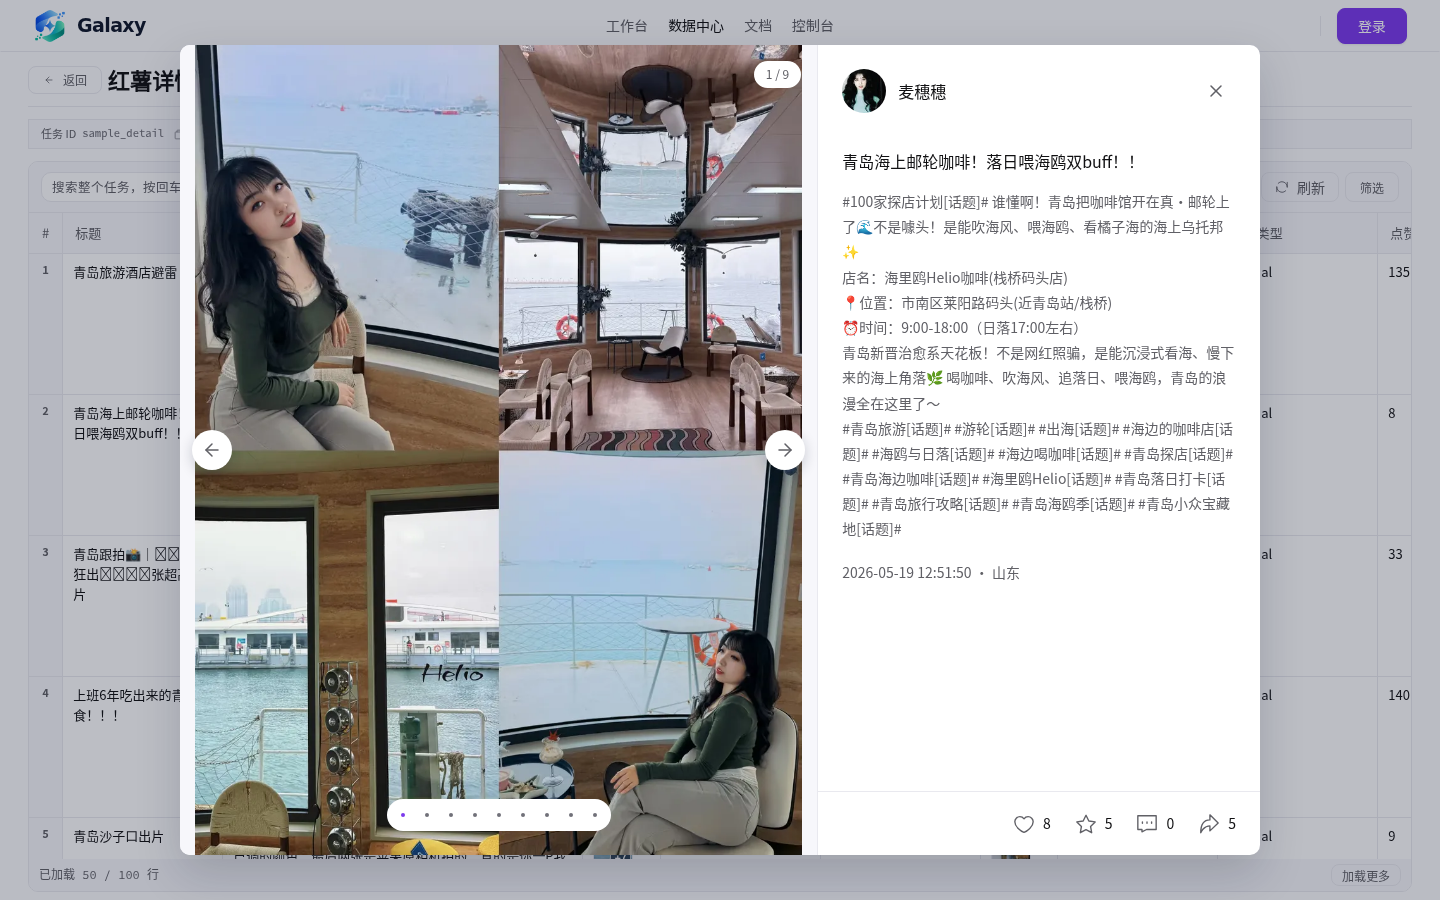
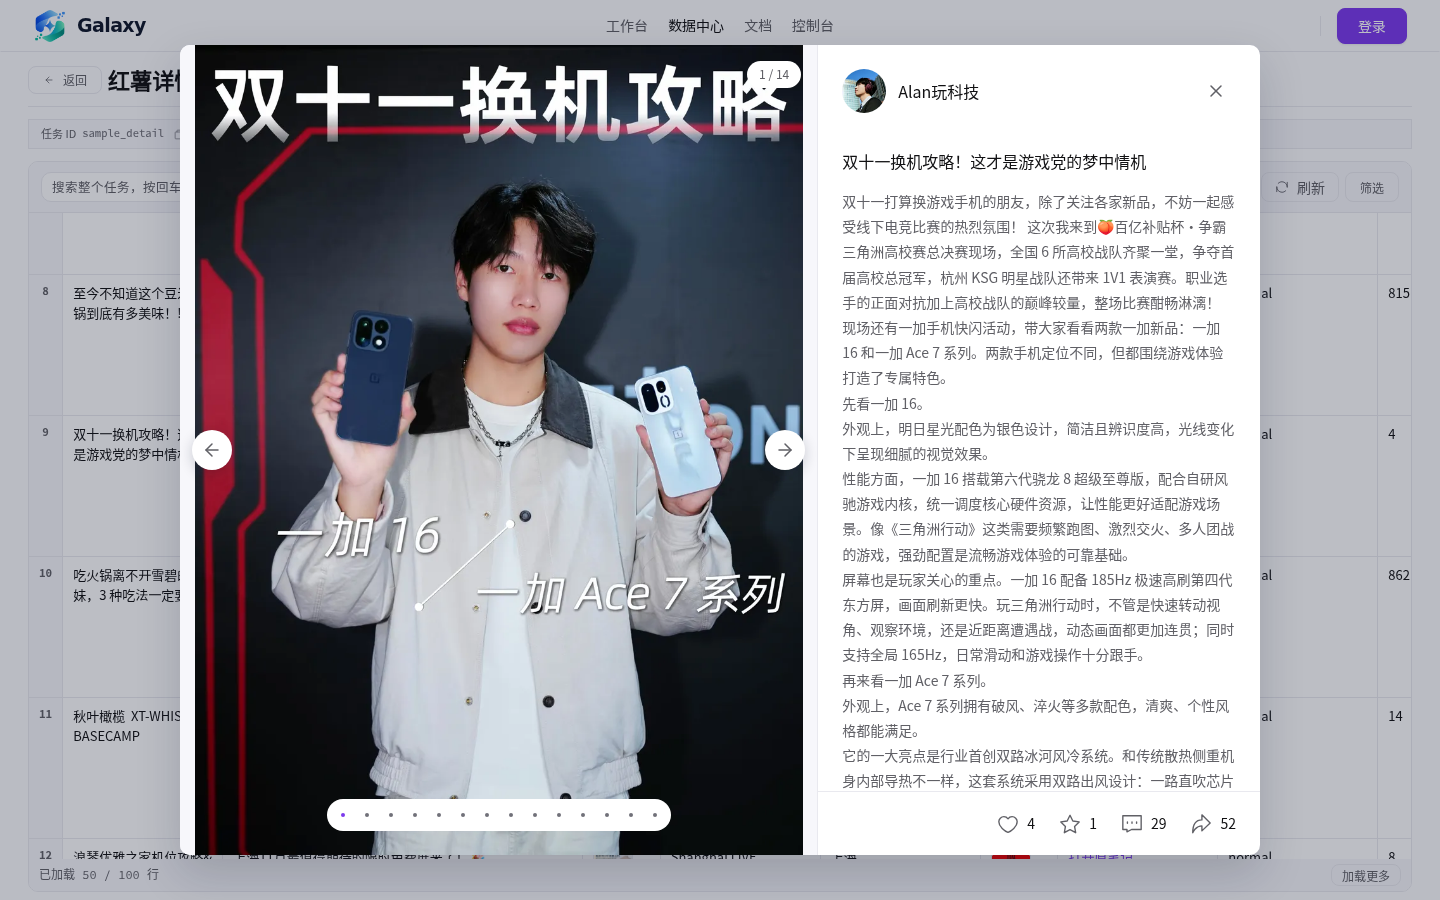
Show demo account overview and a multi-image text note in feature preview

diff --git a/README.en.md b/README.en.md
@@ -40,11 +40,11 @@ The following public guides support Chinese and English through the page languag
 
 ## Feature preview
 
-Fresh screenshots from the live platform in the Light theme, arranged in two rows and three columns: collection workbench, note search, Data Center, note preview, comment analysis and content analysis. Data screens use the platform's public examples.
+Fresh screenshots from the live platform in the Light theme, arranged in two rows and three columns: collection workbench, note search, Data Center, note preview, comment analysis and account overview. Data Center and note preview use public examples; Overview shows the designated demo account.
 
 [![Galaxy feature preview: six live-platform screenshots in a two-row, three-column layout](assets/screenshots/platform-overview.png)](assets/screenshots/platform-overview.png)
 
-[Open the comment analysis report example](https://galaxysapi.com/api/reports/sample?utm_source=github&utm_medium=readme&utm_campaign=xiaohongshu) · [Open the content analysis report example](https://galaxysapi.com/api/reports/content-sample?utm_source=github&utm_medium=readme&utm_campaign=xiaohongshu)
+[Open the comment analysis report example](https://galaxysapi.com/api/reports/sample?utm_source=github&utm_medium=readme&utm_campaign=xiaohongshu) · [Open account overview](https://galaxysapi.com/console/dashboard?utm_source=github&utm_medium=readme&utm_campaign=xiaohongshu)
 
 ## Xiaohongshu API capabilities
 

diff --git a/README.md b/README.md
@@ -37,11 +37,11 @@ Galaxy API 是面向自媒体运营、品牌研究和开发者的数据采集分
 
 ## 功能预览
 
-正式平台浅色主题截图，按两行三列展示：采集工作台、笔记搜索、数据中心、笔记预览、评论分析和内容分析。
+正式平台浅色主题截图，按两行三列展示：采集工作台、笔记搜索、数据中心、笔记预览、评论分析和概览。概览使用演示账号截图，数据页面使用平台公开示例。
 
 [![Galaxy 平台功能预览：六张正式站截图，两行三列排列](assets/screenshots/platform-overview.png)](assets/screenshots/platform-overview.png)
 
-[打开评论分析报告示例](https://galaxysapi.com/api/reports/sample?utm_source=github&utm_medium=readme&utm_campaign=xiaohongshu) · [打开内容分析报告示例](https://galaxysapi.com/api/reports/content-sample?utm_source=github&utm_medium=readme&utm_campaign=xiaohongshu)
+[打开评论分析报告示例](https://galaxysapi.com/api/reports/sample?utm_source=github&utm_medium=readme&utm_campaign=xiaohongshu) · [进入概览](https://galaxysapi.com/console/dashboard?utm_source=github&utm_medium=readme&utm_campaign=xiaohongshu)
 
 ## 小红书 API：从内容发现到达人研究
 
